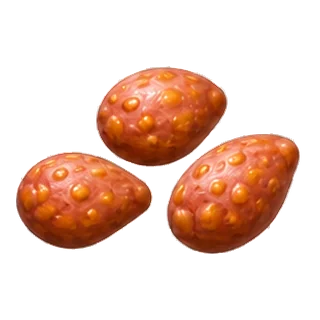
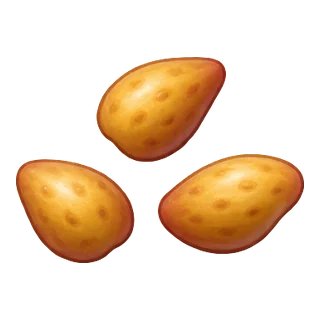
Nouvelles images sans terre pour radis, laitue, pomme de terre, carotte, blé et fraise (0.15.0)
Graines, pousses, plantes mûres, récoltes et sacs. Le stade intermédiaire
reprend la pousse en attendant ses images.

Claude-Session: https://claude.ai/code/session_018D5HKJWKwN88xpAGuhHMQJ

diff --git a/index.html b/index.html
@@ -6,13 +6,13 @@
   <title>Potager idle</title>
   <meta name="description" content="Un petit jeu idle de potager : plante, arrose, récolte, cuisine et découvre des variétés hybrides.">
   <meta name="theme-color" content="#f2f9e6" id="theme-color">
-  <link rel="manifest" href="manifest.webmanifest?v=66">
+  <link rel="manifest" href="manifest.webmanifest?v=67">
   <link rel="icon" href="icons/favicon-32.png" sizes="32x32" type="image/png">
   <link rel="icon" href="icons/favicon-64.png" sizes="64x64" type="image/png">
   <link rel="icon" href="icons/icon-192.png" sizes="192x192" type="image/png">
   <link rel="preload" href="fonts/nunito-latin.woff2" as="font" type="font/woff2" crossorigin>
   <link rel="preload" href="fonts/fredoka-latin.woff2" as="font" type="font/woff2" crossorigin>
-  <link rel="stylesheet" href="css/style.css?v=66">
+  <link rel="stylesheet" href="css/style.css?v=67">
 </head>
 <body>
 <div id="app">
@@ -41,9 +41,9 @@
 <div id="fx"></div>
 <div id="toasts" aria-live="polite"></div>
 
-<script src="js/data.js?v=66"></script>
-<script src="assets/img/manifest.js?v=66"></script>
-<script src="js/art.js?v=66"></script>
-<script src="js/game.js?v=66"></script>
+<script src="js/data.js?v=67"></script>
+<script src="assets/img/manifest.js?v=67"></script>
+<script src="js/art.js?v=67"></script>
+<script src="js/game.js?v=67"></script>
 </body>
 </html>

diff --git a/js/art.js b/js/art.js
@@ -210,10 +210,13 @@ function cropArt(k) { return hasImg("plants", k) ? imgSvg(`assets/img/${k}-crop.
 function seedArt(k) { return hasImg("plants", k) ? imgSvg(`assets/img/${k}-seeds.webp`) : packetArt(k); }
 
 /* Pousses et jeunes plants dessinés sans terre, posés directement dans le bac. */
-const SPROUTS = new Set(["rubis", "lilas", "citrouillotte", "bledor", "fraisille", "basilomate", "lune", "poivree"]);
+const SPROUTS = new Set(["rubis", "lilas", "citrouillotte", "bledor", "fraisille", "basilomate", "lune", "poivree", "radis", "laitue", "patate", "carotte", "ble", "fraise"]);
+/* Plantes mûres dessinées sans terre (posées directement dans le bac). */
+const RIPE_NO_SOIL = new Set(["radis", "laitue", "patate", "carotte", "ble", "fraise"]);
 function plantArt(k, stage, inPlot) {
   if (stage === 1 && SPROUTS.has(k)) return imgSvg(`assets/img/${k}-sprout.webp`, "art img sprout");
   if (stage === 2 && SPROUTS.has(k)) return imgSvg(`assets/img/${k}-young.webp`, "art img young");
+  if (stage === 3 && RIPE_NO_SOIL.has(k) && hasImg("plants", k)) return imgSvg(`assets/img/${k}-3.webp`, "art img ripe");
   if (hasImg("plants", k)) return stage === 0 ? imgSvg(`assets/img/${k}-grain.webp`, "art img grain") : imgSvg(`assets/img/${k}-${stage}.webp`, "art img");
   const d = PLANTS[k];
   let g;

diff --git a/assets/img/manifest.js b/assets/img/manifest.js
@@ -1,2 +1,2 @@
 /* Généré par tools/process_images.py : liste des images disponibles. */
-window.IMG = {"plants": ["basilic", "basilomate", "ble", "bledor", "carotte", "citrouillotte", "fraise", "fraisille", "laitue", "lavande", "lilas", "lune", "myrtille", "poivree", "potiron", "radis", "rubis", "tomate", "tournesol"], "dishes": ["confiture", "gateau", "muffins", "pain", "pesto", "salade", "sauce", "smoothie", "soupe", "tarte", "tisane", "veloute"], "ui": []};
+window.IMG = {"plants": ["basilic", "basilomate", "ble", "bledor", "carotte", "citrouillotte", "fraise", "fraisille", "laitue", "lavande", "lilas", "lune", "myrtille", "patate", "poivree", "potiron", "radis", "rubis", "tomate", "tournesol"], "dishes": ["confiture", "gateau", "muffins", "pain", "pesto", "salade", "sauce", "smoothie", "soupe", "tarte", "tisane", "veloute"], "ui": []};

diff --git a/css/style.css b/css/style.css
@@ -486,3 +486,4 @@ textarea { width: 100%; min-height: 70px; border-radius: 12px; border: 1px solid
 @keyframes ring-blink { 0%, 100% { stroke: #a9d4f2; } 50% { stroke: #2f8fd6; } }
 /* Goutte : cercle serré, centré à la même hauteur que la pastille du légume */
 .plot .thirst { width: 24%; top: calc(1px + 7%); right: 1px; padding: 2.5%; box-shadow: 0 2px 5px rgba(0,0,0,.3), 0 0 0 2px #3f9bdc; }
+.plot svg.art.ripe { left: 14%; width: 72%; height: 72%; bottom: 22%; }

diff --git a/js/game.js b/js/game.js
@@ -1,7 +1,7 @@
 "use strict";
 /* Numéro de version affiché dans les Paramètres.
    À chaque mise à jour : changer APP_VERSION, le ?v= dans index.html et VERSION dans sw.js. */
-const APP_VERSION = "0.14.8";
+const APP_VERSION = "0.15.0";
 /* ---------------- Helpers ---------------- */
 const $ = s => document.querySelector(s);
 const now = () => Date.now();

diff --git a/sw.js b/sw.js
@@ -1,6 +1,6 @@
 /* Service worker de Potager idle : rend le jeu jouable hors-ligne.
    À chaque mise à jour du jeu, augmente VERSION pour que les téléphones téléchargent la nouvelle version. */
-const VERSION = "potager-v66";
+const VERSION = "potager-v67";
 const FILES = [
   "./",
   "index.html",
